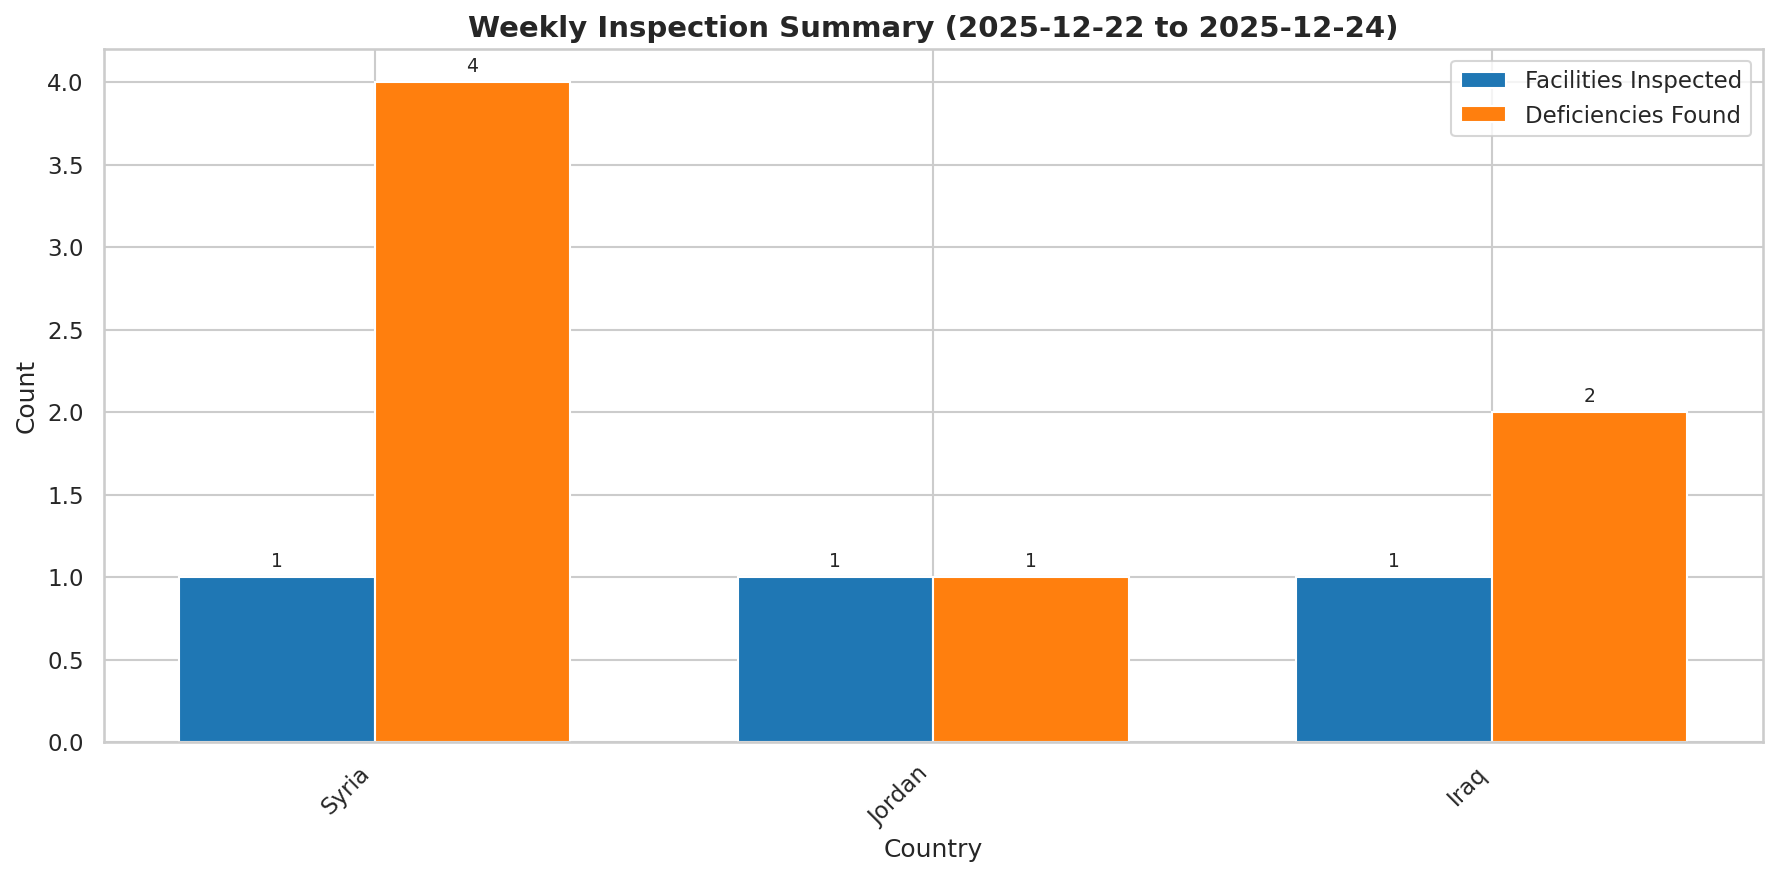
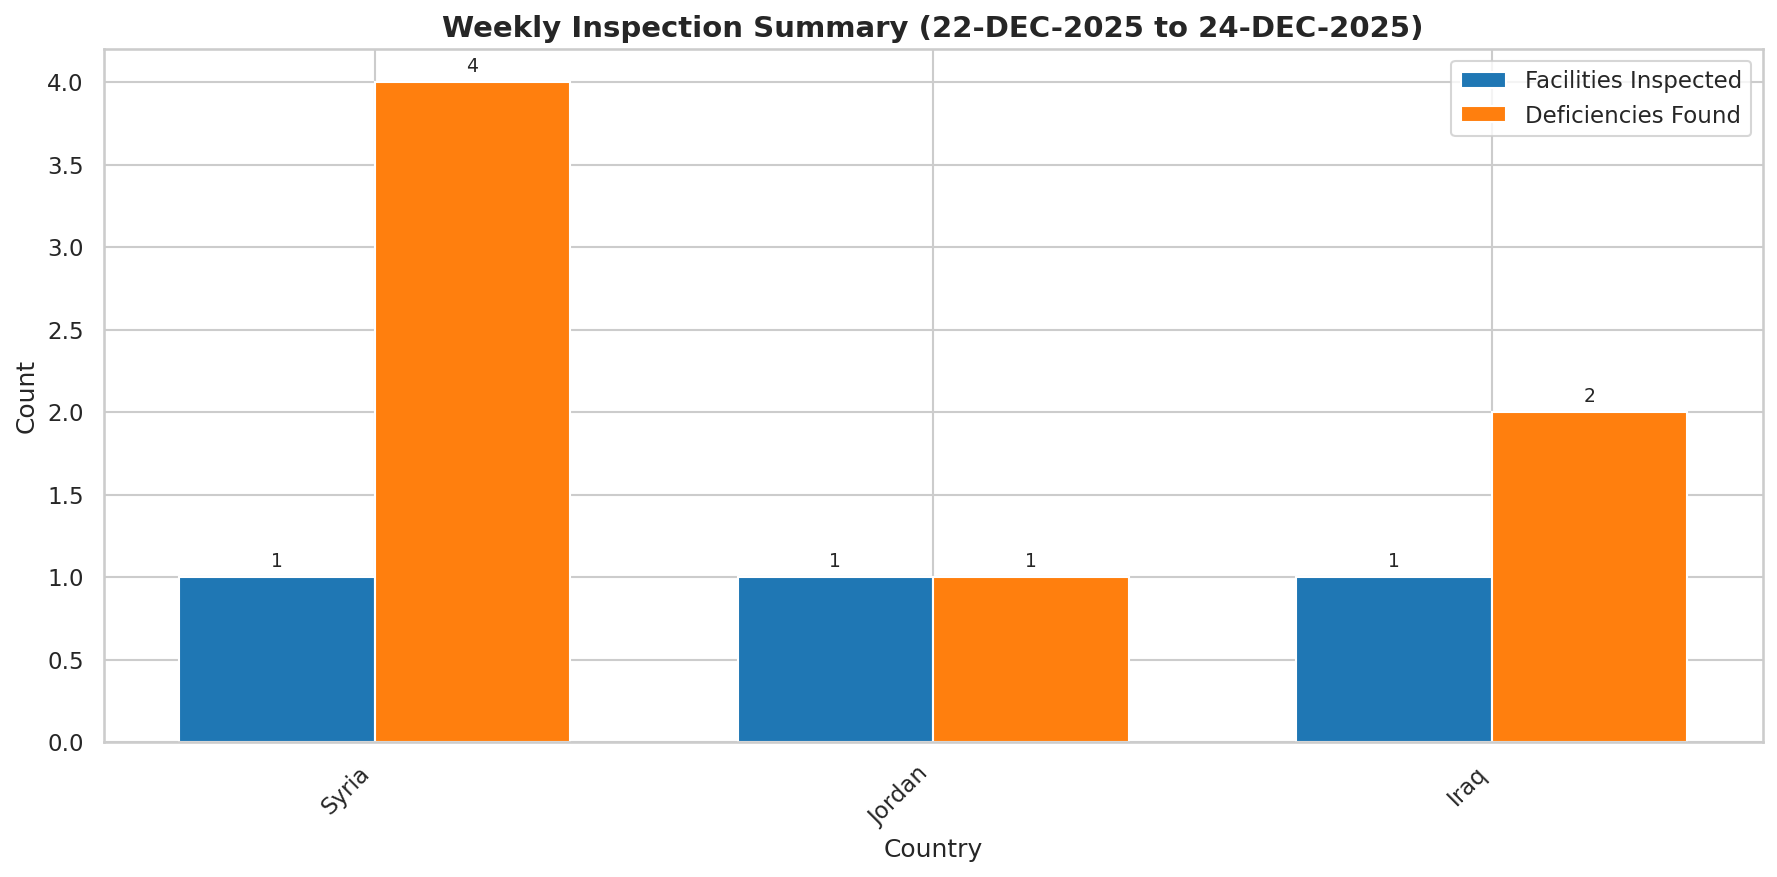
Weekly report: add country breakdown to deficiency types, DD-MMM-YYYY date format

Changed region(s): [[0.2476, 0.0, 0.65, 0.0616], [0.6809, 0.0, 0.8047, 0.0616]]

diff --git a/scripts/generate_weekly_report.py b/scripts/generate_weekly_report.py
@@ -14,6 +14,16 @@ import matplotlib.patches as mpatches
 import seaborn as sns
 import pandas as pd
 
+def format_date_display(date_str):
+    """Convert YYYY-MM-DD to DD-MMM-YYYY format (e.g., 22-DEC-2025)."""
+    if not date_str:
+        return date_str
+    try:
+        dt = datetime.strptime(date_str, '%Y-%m-%d')
+        return dt.strftime('%d-%b-%Y').upper()
+    except:
+        return date_str
+
 # Paths
 SCRIPT_DIR = os.path.dirname(os.path.abspath(__file__))
 PROJECT_DIR = os.path.dirname(SCRIPT_DIR)
@@ -89,6 +99,25 @@ def get_deficiency_types(conn, start_date, end_date):
         GROUP BY md.def_category
         ORDER BY count DESC
         LIMIT 10
+    """
+    df = pd.read_sql_query(query, conn, params=[start_date, end_date])
+    return df
+
+
+def get_deficiency_types_by_country(conn, start_date, end_date):
+    """Get deficiency types breakdown with top country for each type."""
+    query = """
+        SELECT 
+            md.def_category as category,
+            co.name as country,
+            COUNT(*) as count
+        FROM master_deficiencies md
+        JOIN camps ca ON md.camp_id = ca.id
+        JOIN countries co ON ca.country_id = co.id
+        WHERE md.inspection_date >= ? AND md.inspection_date <= ?
+            AND md.def_category IS NOT NULL AND md.def_category != ''
+        GROUP BY md.def_category, co.name
+        ORDER BY md.def_category, count DESC
     """
     df = pd.read_sql_query(query, conn, params=[start_date, end_date])
     return df
@@ -230,7 +259,7 @@ def generate_operational_updates_slide(weekly_stats, start_date, end_date, outpu
             color=NAVY_BLUE, ha='left', va='top')
     
     # Week info
-    ax.text(1, 8.5, f'REDi – Week ({start_date} – {end_date})', 
+    ax.text(1, 8.5, f'REDi – Week ({format_date_display(start_date)} – {format_date_display(end_date)})', 
             fontsize=18, fontweight='bold', color=NAVY_BLUE, ha='left', va='top')
     
     # Calculate totals
@@ -302,7 +331,7 @@ def generate_weekly_by_country_chart(weekly_stats, start_date, end_date, output_
     
     ax.set_xlabel('Country', fontsize=12)
     ax.set_ylabel('Count', fontsize=12)
-    ax.set_title(f'Weekly Inspection Summary ({start_date} to {end_date})', fontsize=14, fontweight='bold')
+    ax.set_title(f'Weekly Inspection Summary ({format_date_display(start_date)} to {format_date_display(end_date)})', fontsize=14, fontweight='bold')
     ax.set_xticks(x)
     ax.set_xticklabels(weekly_stats['country'], rotation=45, ha='right')
     ax.legend()
@@ -323,31 +352,65 @@ def generate_weekly_by_country_chart(weekly_stats, start_date, end_date, output_
     print(f"  Generated: {output_path}")
 
 
-def generate_deficiency_types_chart(def_types, start_date, end_date, output_path):
-    """Generate pie chart of deficiency types."""
+def generate_deficiency_types_chart(def_types, start_date, end_date, output_path, def_types_by_country=None):
+    """Generate horizontal bar chart of deficiency types with country indicator."""
     if def_types.empty:
         print("  No deficiency type data to chart")
         return
     
-    fig, ax = plt.subplots(figsize=(10, 8))
+    fig, ax = plt.subplots(figsize=(14, 8))
+    fig.patch.set_facecolor('white')
+    ax.set_facecolor('white')
     
-    # Truncate long category names
-    def_types['category_short'] = def_types['category'].apply(
-        lambda x: x[:25] + '...' if len(str(x)) > 25 else x
+    # Get top country for each deficiency type
+    top_countries = {}
+    if def_types_by_country is not None and not def_types_by_country.empty:
+        for category in def_types['category'].unique():
+            cat_data = def_types_by_country[def_types_by_country['category'] == category]
+            if not cat_data.empty:
+                top_country = cat_data.iloc[0]['country']
+                top_count = cat_data.iloc[0]['count']
+                top_countries[category] = (top_country, top_count)
+    
+    # Truncate long category names and add country info
+    def_types = def_types.copy()
+    def_types['label'] = def_types.apply(
+        lambda row: f"{row['category'][:30]}{'...' if len(str(row['category'])) > 30 else ''}" + 
+                    (f" ({top_countries.get(row['category'], ('', 0))[0]})" 
+                     if row['category'] in top_countries else ""),
+        axis=1
     )
     
-    colors = sns.color_palette('husl', len(def_types))
-    wedges, texts, autotexts = ax.pie(def_types['count'], 
-                                       labels=def_types['category_short'],
-                                       autopct='%1.1f%%',
-                                       colors=colors,
-                                       pctdistance=0.75)
+    # Reverse order so largest is at top
+    def_types = def_types.iloc[::-1]
     
-    ax.set_title(f'Deficiency Types - Weekly ({start_date} to {end_date})', 
-                 fontsize=14, fontweight='bold')
+    # Create horizontal bar chart
+    colors = sns.color_palette('husl', len(def_types))
+    bars = ax.barh(range(len(def_types)), def_types['count'], color=colors[::-1])
+    
+    ax.set_yticks(range(len(def_types)))
+    ax.set_yticklabels(def_types['label'], fontsize=10)
+    ax.set_xlabel('Number of Deficiencies', fontsize=12, fontweight='bold')
+    ax.set_title(f'Top Deficiency Types by Category\n({format_date_display(start_date)} to {format_date_display(end_date)})', 
+                 fontsize=14, fontweight='bold', color=NAVY_BLUE, pad=15)
+    
+    # Add value labels on bars
+    for bar, count in zip(bars, def_types['count']):
+        width = bar.get_width()
+        ax.annotate(f'{int(count):,}', xy=(width, bar.get_y() + bar.get_height()/2),
+                   xytext=(5, 0), textcoords="offset points", 
+                   ha='left', va='center', fontsize=10, fontweight='bold')
+    
+    # Add grid
+    ax.xaxis.grid(True, linestyle='--', alpha=0.7)
+    ax.set_axisbelow(True)
+    
+    # Remove top and right spines
+    for spine in ['top', 'right']:
+        ax.spines[spine].set_visible(False)
     
     plt.tight_layout()
-    plt.savefig(output_path, dpi=150, bbox_inches='tight')
+    plt.savefig(output_path, dpi=150, bbox_inches='tight', facecolor='white')
     plt.close()
     print(f"  Generated: {output_path}")
 
@@ -455,7 +518,7 @@ def generate_combined_deficiency_chart(combined_stats, start_date, end_date, out
     
     ax.set_xlabel('Time Period', fontsize=14, fontweight='bold')
     ax.set_ylabel('Number of Deficiencies', fontsize=14, fontweight='bold')
-    ax.set_title(f'Deficiency Status Comparison\n(Week: {start_date} to {end_date})', 
+    ax.set_title(f'Deficiency Status Comparison\n(Week: {format_date_display(start_date)} to {format_date_display(end_date)})', 
                  fontsize=16, fontweight='bold', color=NAVY_BLUE)
     ax.set_xticks(x)
     ax.set_xticklabels(periods, fontsize=12, fontweight='bold')
@@ -607,6 +670,7 @@ def generate_weekly_report(start_date=None, end_date=None):
     print("Fetching data...")
     weekly_stats = get_weekly_stats(conn, start_date, end_date)
     def_types = get_deficiency_types(conn, start_date, end_date)
+    def_types_by_country = get_deficiency_types_by_country(conn, start_date, end_date)
     cumulative_stats = get_cumulative_stats(conn)
     cumulative_by_country = get_cumulative_by_country(conn)
     stats_90_day = get_90_day_stats(conn)
@@ -630,10 +694,11 @@ def generate_weekly_report(start_date=None, end_date=None):
         os.path.join(report_dir, '02_weekly_by_country.png')
     )
     
-    # 3. Deficiency types pie chart
+    # 3. Deficiency types chart with country breakdown
     generate_deficiency_types_chart(
         def_types, start_date, end_date,
-        os.path.join(report_dir, '03_deficiency_types.png')
+        os.path.join(report_dir, '03_deficiency_types.png'),
+        def_types_by_country=def_types_by_country
     )
     
     # 4. Cumulative stats
